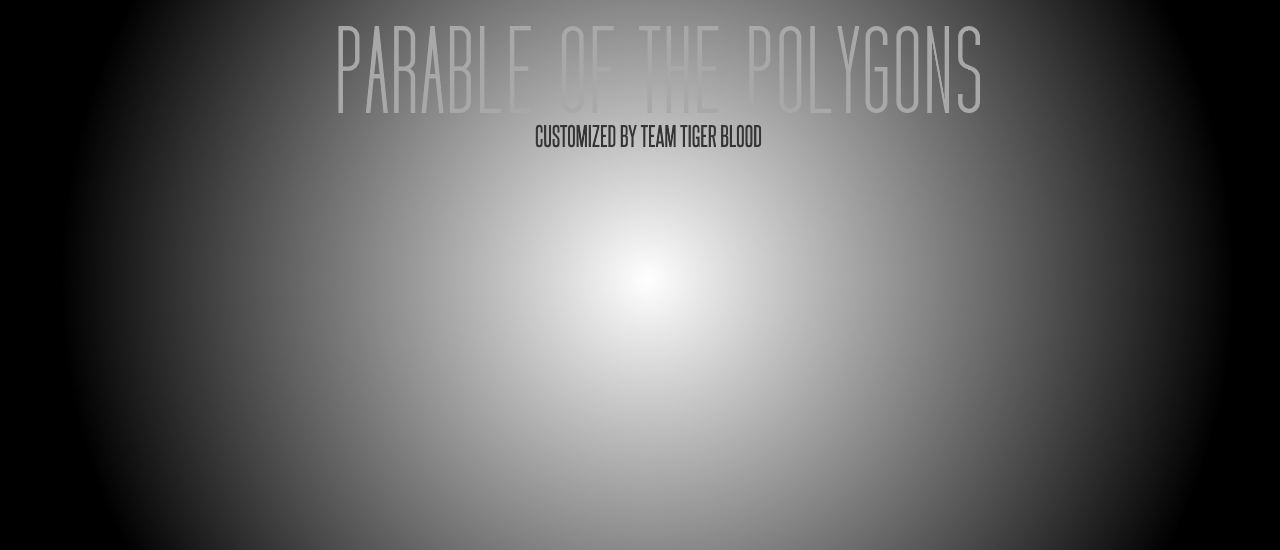
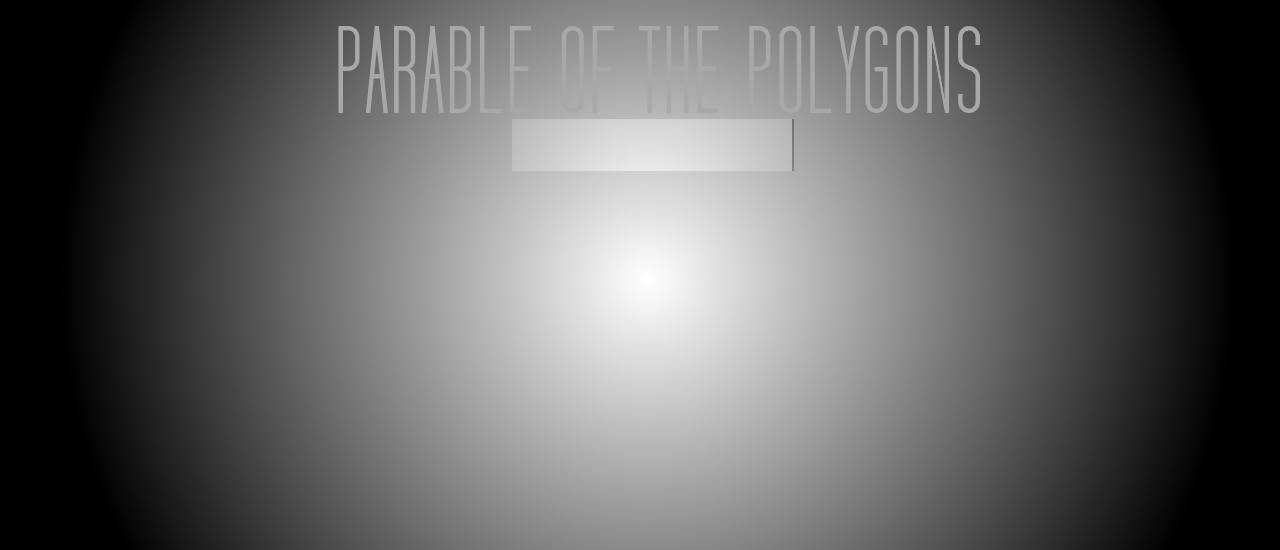
Bias toggle button added. Allows to switch between strict and relaxed definitions of 'like me'.

Changed region(s): [[0.4062, 0.2164, 0.5938, 0.3091]]

diff --git a/play/board/board.js b/play/board/board.js
@@ -39,6 +39,8 @@ var mapBias = new Map([
 	["pentagon", BIAS_PENTAGON]
 ]);
 
+var BIAS_TYPE = "OR";
+
 var TILE_SIZE = 30;
 var PEEP_SIZE = 30;
 var GRID_SIZE = 20; //board size
@@ -51,7 +53,7 @@ window.NUM_SQUARES_MOVED = 0;
 window.NUM_CIRCLES_MOVED = 0;
 window.NUM_PENTAGONS_MOVED = 0;
 window.TOTAL_MOVES = 0;
-window.RATIO_TRIANGLES = 0.20;
+window.RATIO_TRIANGLES = 0.20;	//update for dark shapes?
 window.RATIO_SQUARES = 0.20;
 window.RATIO_CIRCLES = 0.20;
 window.RATIO_PENTAGONS = 0.20;
@@ -217,8 +219,10 @@ function Draggable(x,y){
 				var dy = d.y-self.y;
 				if(dx*dx+dy*dy<DIAGONAL_SQUARED){
 					neighbors++;
-					if(d.color==self.color || d.value == self.value){	// !! Bias logic. Currently same shape OR same value will count as "like me"
-						same++;
+					if (BIAS_TYPE == "OR") {
+						if (d.color == self.color || d.value == self.value) same++;	// !! Bias logic. Currently same shape OR same value will count as "like me"
+					} else {
+						if (d.color == self.color && d.value == self.value) same++;
 					}
 				}
 			}
@@ -434,7 +438,6 @@ window.reset = function(size){
 
 	stats_ctx.clearRect(0,0,stats_canvas.width,stats_canvas.height);
 	draggables = [];
-	console.log("height"+document.getElementById('canvas').style.height);
 	//sets up ratios of shapes based upon the default values
 	for(var x=0;x<GRID_SIZE;x++){
 		for(var y=0;y<GRID_SIZE;y++){
@@ -501,7 +504,7 @@ function setupSliders(){
 			{color: "#aaa", icon: "sliders/ds_happy.png"},
 			{color: "#555", icon: "sliders/ds_sad.png"}
 		],
-		values: [0.20, 1],
+		values: [0.33, 1],
 		onChange: function (values) {
 			window.BIAS_TRIANGLE = Math.round((values[0] + Number.EPSILON) * 100) / 100;
 			window.NONCONFORM_TRIANGLE = Math.round((values[1] + Number.EPSILON) * 100) / 100;
@@ -519,7 +522,7 @@ function setupSliders(){
 			{color: "#aaa", icon: "sliders/ds_happy.png"},
 			{color: "#555", icon: "sliders/ds_sad.png"}
 		],
-		values: [0.20, 1],
+		values: [0.33, 1],
 		onChange: function (values) {
 			window.BIAS_SQUARE = Math.round((values[0] + Number.EPSILON) * 100) / 100;
 			window.NONCONFORM_SQUARE = Math.round((values[1] + Number.EPSILON) * 100) / 100;
@@ -537,7 +540,7 @@ function setupSliders(){
 			{color: "#aaa", icon: "sliders/ds_happy.png"},
 			{color: "#555", icon: "sliders/ds_sad.png"}
 		],
-		values: [0.20, 1],
+		values: [0.33, 1],
 		onChange: function (values) {
 			window.BIAS_CIRCLE = Math.round((values[0] + Number.EPSILON) * 100) / 100;
 			window.NONCONFORM_CIRCLE = Math.round((values[1] + Number.EPSILON) * 100) / 100;
@@ -555,7 +558,7 @@ function setupSliders(){
 			{color: "#aaa", icon: "sliders/ds_happy.png"},
 			{color: "#555", icon: "sliders/ds_sad.png"}
 		],
-		values: [0.20, 1],
+		values: [0.33, 1],
 		onChange: function (values) {
 			window.BIAS_PENTAGON = Math.round((values[0] + Number.EPSILON) * 100) / 100;
 			window.NONCONFORM_PENTAGON = Math.round((values[1] + Number.EPSILON) * 100) / 100;
@@ -908,6 +911,17 @@ function step(){
 	}
 }
 
+function changeBias(biasType) {
+	let unhappyPolygons = 0;
+	if (biasType == "OR") BIAS_TYPE = "OR";
+	else if (biasType == "AND") BIAS_TYPE = "AND";
+	for (let i = 0; i < draggables.length; i++) {
+		let d = draggables[i];
+		d.update();
+		if (d.shaking == true) unhappyPolygons++;
+	}
+	console.log("Number of unhappy polygons: " + unhappyPolygons);
+}
 
 ////////////////////
 // ANIMATION LOOP //

diff --git a/play/board/board.html b/play/board/board.html
@@ -4,6 +4,8 @@
 	<title>Automatic Simulation - SANDBOX</title>
 	<link href="board.css" rel="stylesheet" type="text/css">
 	<link href="sliders/doubleslider.css" rel="stylesheet" type="text/css">
+	<!--<script src="https://code.jquery.com/jquery-3.5.1.min.js" integrity="sha256-9/aliU8dGd2tb6OSsuzixeV4y/faTqgFtohetphbbj0=" crossorigin="anonymous"></script>-->
+	<!--<script src="https://maxcdn.bootstrapcdn.com/bootstrap/3.4.1/js/bootstrap.min.js"></script>-->
 	<style type="text/css">
 	input{
 		margin-bottom: 15px;
@@ -27,12 +29,6 @@
 				<div id="pentagon_stats"></div>
 			</div>
 <!-- This modification displays the percentage of each shape currently on the board -->
-
-			<!--I'll move if <span class="highlight">&lt;<span id="bias_text">33%</span></span>
-			or <span class="highlight">&gt;<span id="nonconform_text">100%</span></span> of my neighbors are like me.
-			<br>
-			<div id="slider"></div>
-			<br>-->
 			<span class="triangle_highlight">Triangle</span>: I'll move if <span class="highlight">&lt;<span id="bias_text_triangle">33%</span></span>
 			or <span class="highlight">&gt;<span id="nonconform_text_triangle">100%</span></span> of my neighbors are like me.
 			<br>
@@ -73,10 +69,22 @@
 				<div class="switch-field">
 					<input type="radio" id="radio-one" name="switch-one" value="small" onclick="window.reset('small')" checked/>
 					<label for="radio-one">Small board</label>
-					<!--<input type="radio" id="radio-two" name="switch-one" value="large" onclick="enlargeBoard()" />-->
-					<!--<input type="radio" id="radio-two" name="switch-one" value="large" onclick="parent.location.href='../../large.html'" />-->
 					<input type="radio" id="radio-two" name="switch-one" value="large" onclick="window.reset('large')" />
 					<label for="radio-two">Large board</label>
+				</div>
+			</form>
+
+			<!-- bias tyope toggle button-->
+			<form class="form">
+				<div class="switch-field">
+					<input type="radio" id="bias-radio-one" name="switch-one" value="OR" onclick="changeBias('OR')" checked/>
+					<label for="bias-radio-one" data-toggle="tooltip"
+						   title="Polygons will perceive other polygons as &#34;like themselves&#34; if they are either the same shape OR have the same color value.">
+						Relaxed "like me"</label>
+					<input type="radio" id="bias-radio-two" name="switch-one" value="AND" onclick="changeBias('AND')" />
+					<label for="bias-radio-two"
+						   title="Polygons will perceive other polygons as &#34;like themselves&#34; only if they are the same shape AND have the same color value.">
+						Strict "like me"</label>
 				</div>
 			</form>
 

diff --git a/play/outro/outro.html b/play/outro/outro.html
@@ -68,7 +68,9 @@
 			<div style="width:600px; margin:25px auto; font-size:18px; letter-spacing:0; font-weight:normal">
 				Based on the Parable of the Polygons "playable post", developed by  
 				<a href="https://twitter.com/vihartvihart" target="_blank">@vihartvihart</a> and
-				<a href="https://twitter.com/ncasenmare" target="_blank">@ncasenmare</a>.
+				<a href="https://twitter.com/ncasenmare" target="_blank">@ncasenmare</a>,
+				customized by <a href="https://alewi1.github.io/447-Polygons/" target="_blank">Team Tiger Blood</a>,
+				then fiddled with by the Computational Ethics Team 1.
 			</div>
 		</div>
 

diff --git a/index.html b/index.html
@@ -27,7 +27,7 @@
 
 	<!-- PLAYABLE -->
 	<div class="playable" id="playable">
-		<iframe playable src="play/board/board.html" id="playableFrame" style="position:relative;left:10px" width="1050" height="1000"></iframe> <!-- board size-->
+		<iframe playable src="play/board/board.html" id="playableFrame" style="position:relative;left:10px" width="1050" height="1100"></iframe> <!-- board size-->
 	</div>
 
 	<!-- SPLASH -->
